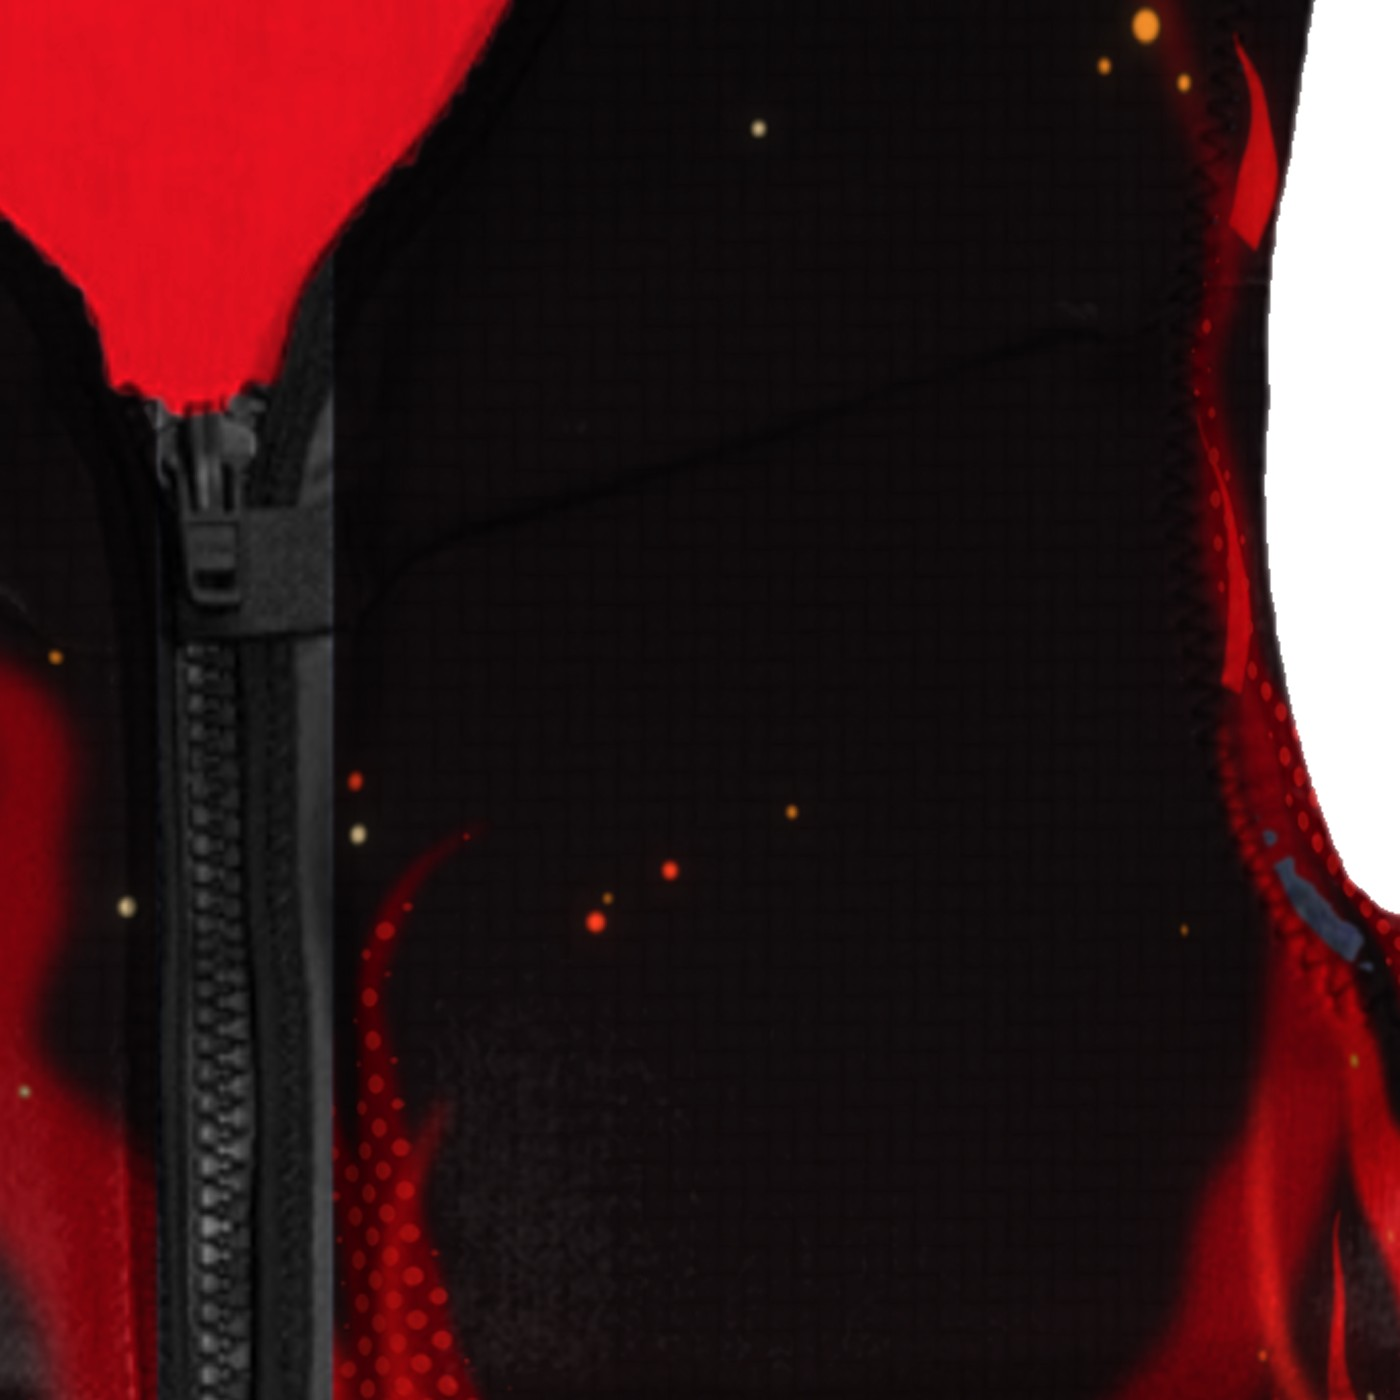
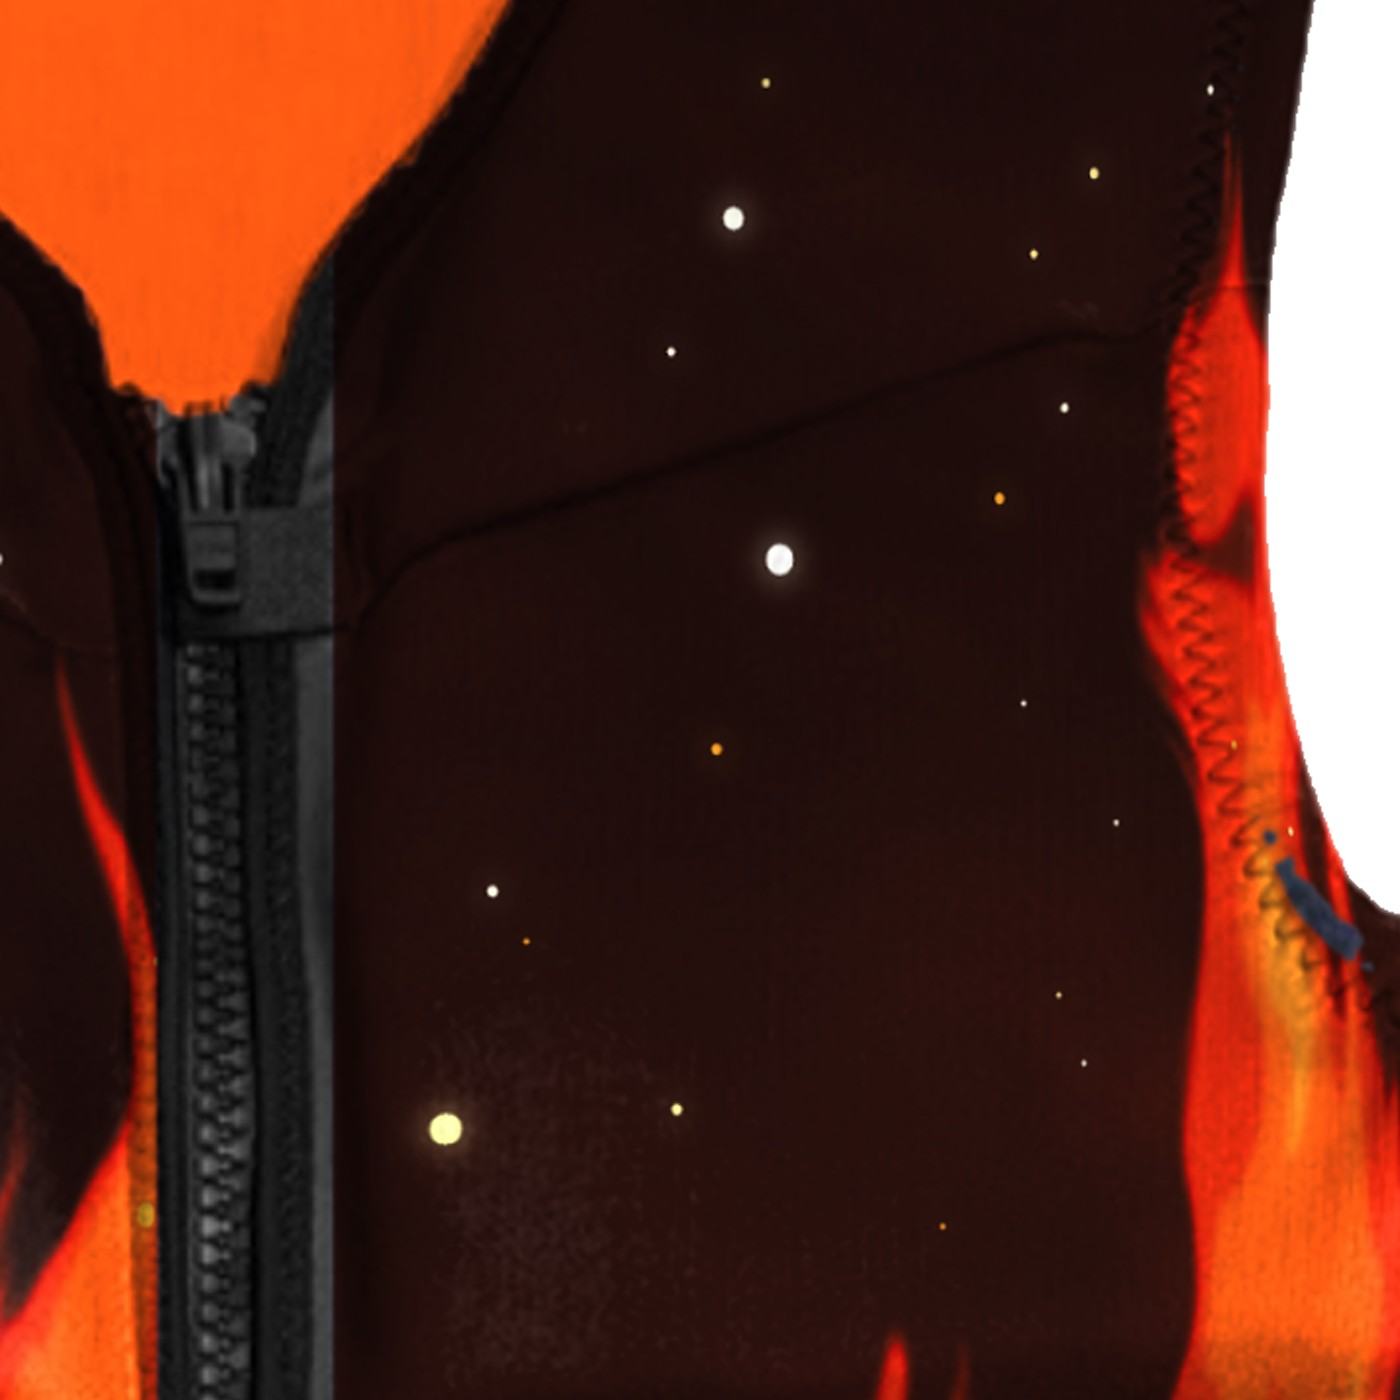
Redline '88: red/orange fire to match the new Blue Flame
Claude-Session: https://claude.ai/code/session_0127vMjnJRYBY8RJT8fGrYSF

diff --git a/config.js b/config.js
@@ -2,7 +2,7 @@
 // The logo artwork is in /brand (swap those SVG/PNG files if the name changes).
 window.SITE = {
   // Bump this whenever you replace a vest image (same filename) so browsers fetch the new one
-  imgVersion: 15,
+  imgVersion: 16,
 
   brand: {
     name: "Stinger",
@@ -136,9 +136,9 @@ window.SITE = {
       id: "redline88",
       img: "redline",
       name: "Redline '88",
-      kicker: "Bright red flames",
-      blurb: "A wall of red fire climbing from the hem: deep crimson edges, bright red tongues and white-hot cores, with ghost flames and embers rising into black. Red lining.",
-      glow: "#FF1020",
+      kicker: "Red and orange fire",
+      blurb: "Deep red and orange flames with gold-white cores, climbing highest up the sides and fading into dark smoke and sparks across the chest. Orange lining.",
+      glow: "#FF5A14",
       noBack: true, // no back photo yet: hide the back view
     },
     {
